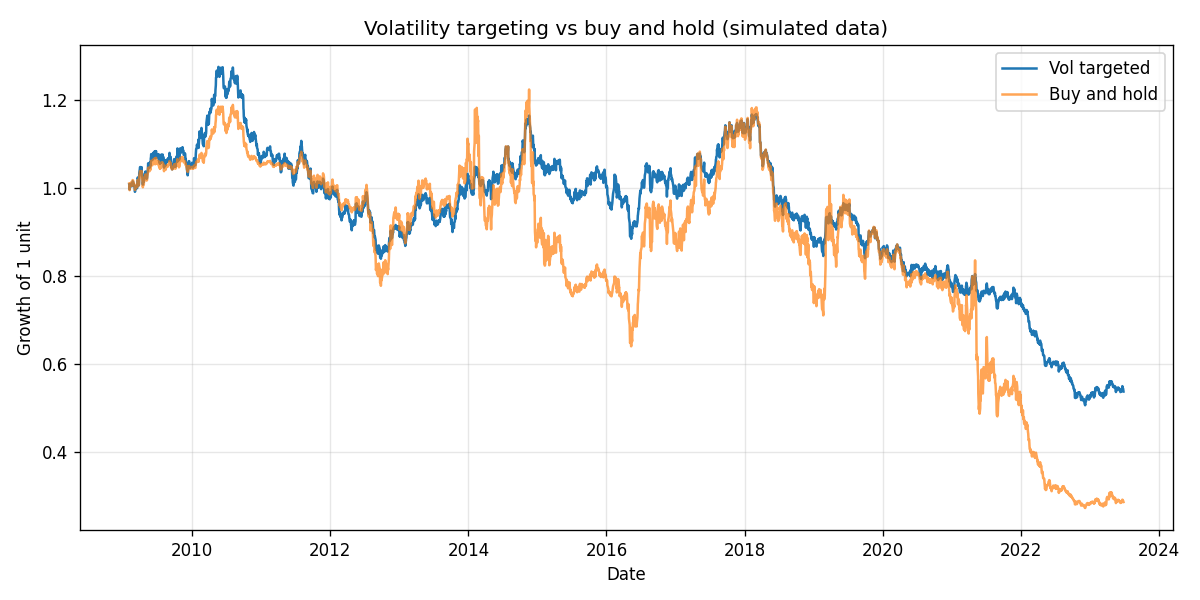
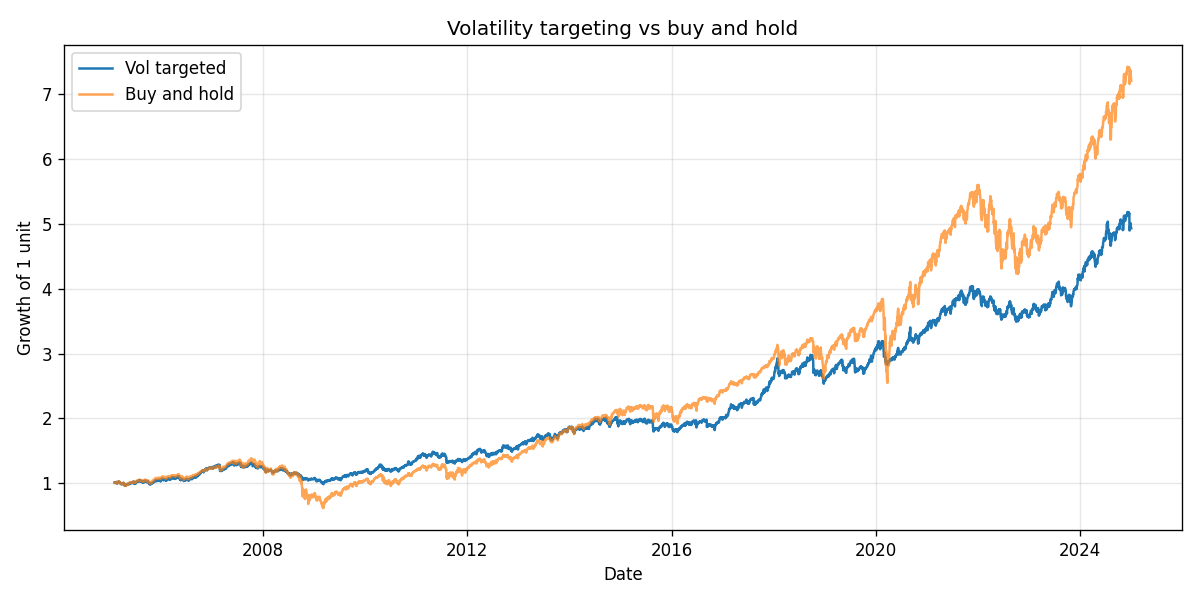
docs: regenerate example charts on live market data

diff --git a/README.md b/README.md
@@ -46,7 +46,7 @@ works rather than just coding it up. Two effects show up again and again:
 ## Example output
 
 The charts below come straight from the plotting code in this repo. The
-committed versions here were generated on simulated data, so they show what the
+committed versions here were generated on live market data pulled with yfinance, so they show what the
 output looks like. Run `python scripts/run.py --save-plots` to reproduce them on
 live market data.
 
